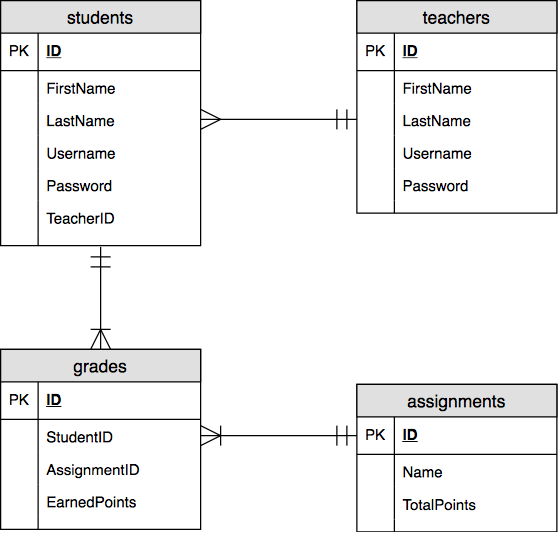
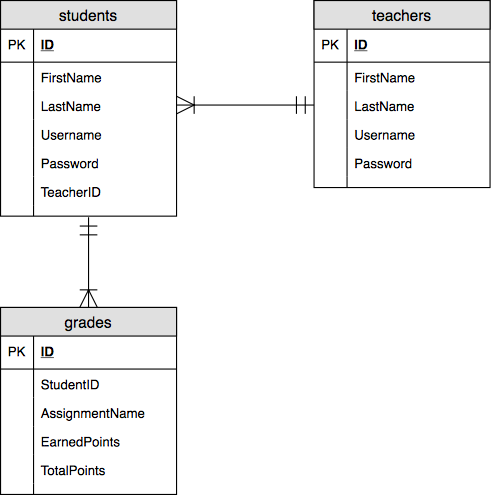
Removed assignments table

diff --git a/controller.php b/controller.php
@@ -52,12 +52,6 @@
                 case 'add_grade':
                     $this->handleAddGrade();
                     break;
-                case 'add_assignment':
-                    $this->handleAddAssignment();
-                    break;
-                case 'delete_assignment':
-                    $this->handleRemoveAssignment();
-                    break;
                 case 'add_student':
                     $this->handleAddStudent();
                     break;
@@ -70,16 +64,13 @@
                     print $this->views->loginFormView($this->data, $this->message);
                     break;
                 case 'gradeForm':
-                    print $this->views->gradeFormView($this->model->getUser(), $this->data, $this->message);
-                    break;
-                case 'assignmentForm':
-                    print $this->views->assignmentFormView($this->model->getUser(), $this->data, $this->message);
+                    print $this->views->gradeFormView($this->data, $this->message);
                     break;
                 case 'studentForm':
-                    print $this->views->studentFormView($this->model->getUser(), $this->data, $this->message);
+                    print $this->views->studentFormView($this->data, $this->message);
                     break;
                 default: // 'gradesList'
-                    print $this->views->gradesListView($this->model->getUser(), $this->message);
+                    print $this->views->gradesListView($this->message);
             }
         }
 
@@ -97,7 +88,7 @@
                 return;
             }
 
-            $error = $this->model->add_grade($_POST);
+            $error = $this->model->addGrade($_POST);
             if ($error) {
                 $this->message = $error;
                 $this->view = 'gradeForm';
@@ -117,7 +108,7 @@
                 return;
             }
 
-            $error = $this->model->edit_grade($_POST);
+            $error = $this->model->editGrade($_POST);
             if ($error) {
                 $this->message = $error;
                 $this->view = 'gradeForm';
@@ -137,52 +128,10 @@
                 return;
             }
 
-            $error = $this->model->remove_grade($_POST);
+            $error = $this->model->removeGrade($_POST);
             if ($error) {
                 $this->message = $error;
                 $this->view = 'gradeForm';
-                $this->data = $_POST;
-            }
-        }
-
-        // ASSIGNMENTS ---
-
-        // create assignment
-        private function handleAddAssignment()
-        {
-            if (!$this->verifyLogin()) {
-                return;
-            }
-
-            if ($_POST['cancel']) {
-                $this->view = 'gradesList';
-                return;
-            }
-
-            $error = $this->model->add_assignment($_POST);
-            if ($error) {
-                $this->message = $error;
-                $this->view = 'assignmentForm';
-                $this->data = $_POST;
-            }
-        }
-
-        // delete assignment
-        private function handleRemoveAssignment()
-        {
-            if (!$this->verifyLogin()) {
-                return;
-            }
-
-            if ($_POST['cancel']) {
-                $this->view = 'gradesList';
-                return;
-            }
-
-            $error = $this->model->remove_assignment($_POST);
-            if ($error) {
-                $this->message = $error;
-                $this->view = 'assignmentForm';
                 $this->data = $_POST;
             }
         }
@@ -201,7 +150,7 @@
                 return;
             }
 
-            $error = $this->model->add_student($_POST);
+            $error = $this->model->addStudent($_POST);
             if ($error) {
                 $this->message = $error;
                 $this->view = 'studentForm';
@@ -222,7 +171,7 @@
 
         private function verifyLogin()
         {
-            if (! $this->model->check_login()) {
+            if (! $this->model->getStatus()) {
                 $this->view = 'loginForm';
                 return false;
             } else {
@@ -232,11 +181,7 @@
 
         private function handleLogin()
         {
-            $type = $_POST['type'];
-            $loginID = $_POST['loginid'];
-            $password = $_POST['password'];
-
-            list($success, $message) = $this->model->login($type, $loginID, $password);
+            list($success, $message) = $this->model->check_login($_POST);
             if ($success) {
                 $this->view = 'gradesList';
             } else {

diff --git a/README.md b/README.md
@@ -29,22 +29,15 @@ Table: students
 |  5  |  Password   |  varchar(255)  |  No    |  None     |
 |  6  |  TeacherID  |  int           |  No    |  None     |
 
-Table: assignments
-
-|  #  |  Name         |  Type         |  Null  |  Default  |
-|-----|---------------|---------------|--------|-----------|
-|  1  |  ID           |  int          |  No    |  None     |
-|  2  |  Name         |  varchar(50)  |  No    |  None     |
-|  3  |  TotalPoints  |  int          |  No    |  None     |
-
 Table: grades
 
-|  #  |  Name          |  Type  |  Null  |  Default  |
-|-----|----------------|--------|--------|-----------|
-|  1  |  ID            |  int   |  No    |  None     |
-|  2  |  StudentID     |  int   |  No    |  None     |
-|  3  |  AssignmentID  |  int   |  No    |  None     |
-|  4  |  EarnedPoints  |  int   |  No    |  None     |
+|  #  |  Name            |  Type         |  Null  |  Default  |
+|-----|------------------|---------------|--------|-----------|
+|  1  |  ID              |  int          |  No    |  None     |
+|  2  |  StudentID       |  int          |  No    |  None     |
+|  3  |  AssignmentName  |  varchar(50)  |  No    |  None     |
+|  4  |  EarnedPoints    |  int          |  No    |  None     |
+|  5  |  TotalPoints     |  int          |  No    |  None     |
 
 ## ERD Diagram
 
@@ -55,11 +48,11 @@ Table: grades
 Create:
 
 - Create students
+- Create grades
 
 Read:
 
 - Read grades
-- Read assignments
 - Read teachers
 - Read students
 
@@ -69,7 +62,6 @@ Update:
 
 Delete:
 
-- Delete assignments
 - Delete grades
 
 ## Demo
